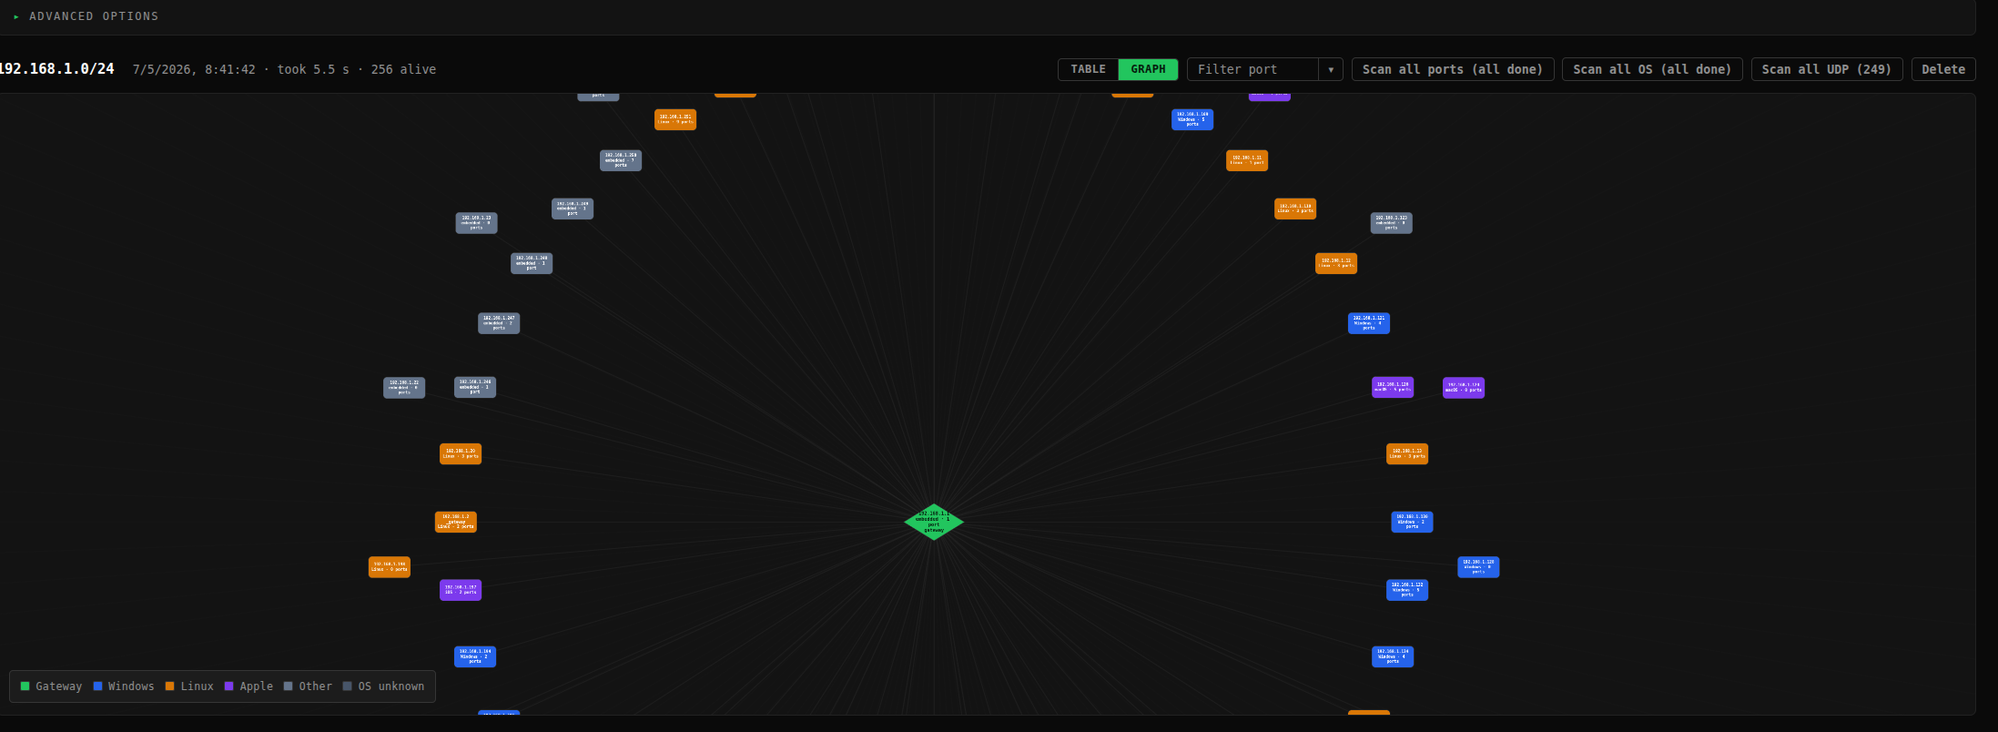
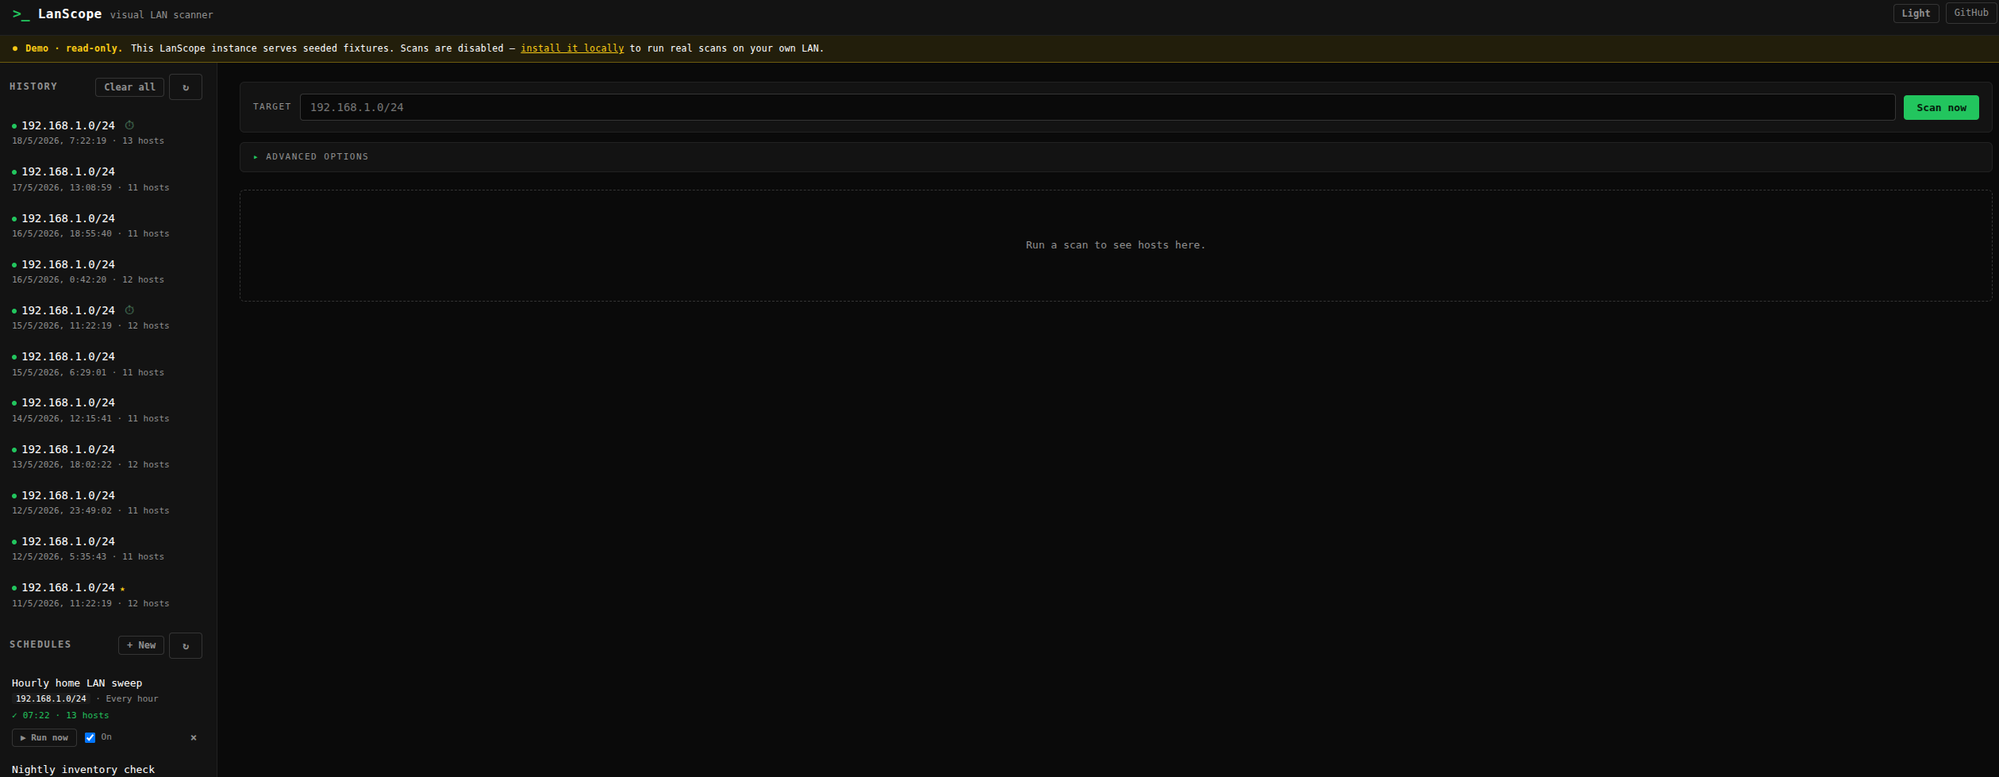
docs(readme): refresh hero screenshot + bump pinned image to 1.0.0
Replace the v0.4-era topology screenshot with a v1.0 dashboard capture
showing the demo banner, populated history sidebar and a scheduled scan
entry — features that didn't exist when the old shot was taken. Update
alt text accordingly. Bump the quickstart compose pin and the uninstall
example from 0.12.0 / 0.8.2 to 1.0.0 so newcomers land on the current
stable image.

diff --git a/README.md b/README.md
@@ -7,7 +7,7 @@
 
 > Visual LAN scanner for your home network or homelab — point it at a CIDR, see who's there.
 
-![LanScope topology graph of a /24 scan, dark theme, gateway at the centre with concentric rings of hosts by relevance](screenshots/screenshot.png)
+![LanScope dashboard in dark theme, showing the read-only demo banner, the scan history sidebar populated with a week of /24 scans, an *Hourly home LAN sweep* schedule entry, and the target / scan-now form ready for the next sweep](screenshots/screenshot.png)
 
 🟢 Stable — v1.0.0.
 
@@ -52,7 +52,7 @@ mkdir -p ~/lanscope && cd ~/lanscope
 cat > docker-compose.yml <<'YAML'
 services:
   lanscope:
-    image: ghcr.io/dannyruizb/lanscope:0.12.0
+    image: ghcr.io/dannyruizb/lanscope:1.0.0
     container_name: lanscope
     network_mode: host
     cap_add:
@@ -69,7 +69,7 @@ volumes:
 YAML
 ```
 
-Pin a specific version (`:0.12.0`) in production so upgrades are intentional. Use `:latest` if you actively want to track the newest release.
+Pin a specific version (`:1.0.0`) in production so upgrades are intentional. Use `:latest` if you actively want to track the newest release.
 
 **2. Start it**:
 
@@ -247,7 +247,7 @@ If you build from source: `git pull && docker compose up -d --build`. The databa
 ### How do I uninstall?
 ```bash
 docker compose down -v   # removes the lanscope-data volume too
-docker image rm ghcr.io/dannyruizb/lanscope:0.8.2  # or whatever tag you have
+docker image rm ghcr.io/dannyruizb/lanscope:1.0.0  # or whatever tag you have
 ```
 
 Without the `-v` flag the volume sticks around, so a future `docker compose up -d` resumes with all your history.